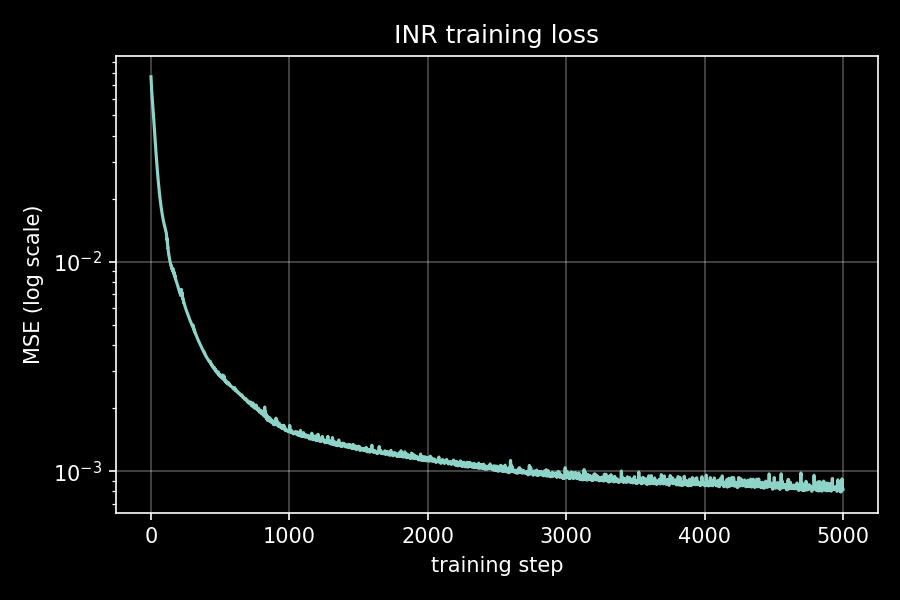
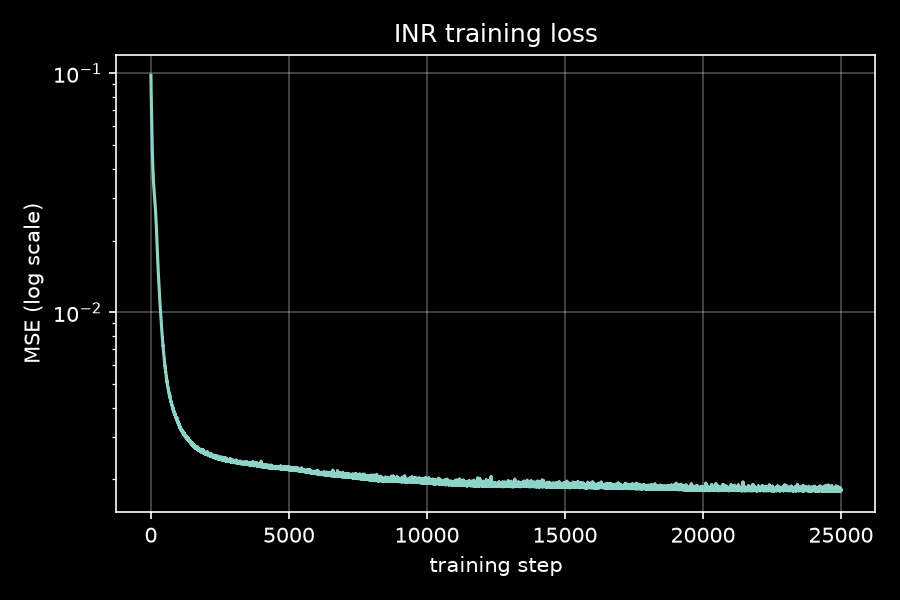
704 parameters could be enough for many INR tasks

diff --git a/implicit_neral_reps/train_inr.py b/implicit_neral_reps/train_inr.py
@@ -14,9 +14,9 @@ Pipeline:
 
 import os
 
-os.environ.setdefault(
-    "JAX_PLATFORMS", "cpu"
-)  # safe default; CPU is plenty for a 224x224 INR
+# os.environ.setdefault(
+#     "JAX_PLATFORMS", "cpu"
+# )  # safe default; CPU is plenty for a 224x224 INR
 
 import jax
 import jax.numpy as jnp
@@ -36,17 +36,19 @@ USE_FOURIER_FEATURES = False  # <-- flip this to False to feed raw (x, y) coords
 NUM_FOURIER_FREQS = 1  # only used when USE_FOURIER_FEATURES = True
 INR_WIDTH = 12
 INR_DEPTH = 6
-NUM_STEPS = 5000
+NUM_STEPS = 25000
 LR = 1e-3
-SEED = 0
+SEED = 2030
 DTYPE = (
     jnp.float32
 )  # float32 throughout; bf16 causes needless precision headaches for a demo
 
 # INPUT_IMAGE_PATH = "pusht.webp"
-INPUT_IMAGE_PATH = "ogbench.png"
+# INPUT_IMAGE_PATH = "ogbench.png"
 # INPUT_IMAGE_PATH = "tworoom.png"
 # INPUT_IMAGE_PATH = "reacher.png"
+# INPUT_IMAGE_PATH = "craftax.jpg"
+INPUT_IMAGE_PATH = "quadruped.jpg"
 OUT_DIR = "./"
 os.makedirs(OUT_DIR, exist_ok=True)
 
@@ -107,36 +109,95 @@ def compute_in_dim(use_fourier, num_freqs):
     return 2 * 2 * num_freqs if use_fourier else 2
 
 
+# class INR(eqx.Module):
+#     layers: list
+#     raw_omega: jnp.ndarray  # shape (depth-1,), unconstrained/trainable
+#     omega_min: float = eqx.field(static=True)
+#     omega_max: float = eqx.field(static=True)
+
+#     def __init__(
+#         self, in_dim, out_dim, width, depth, key, omega_min=50.0, omega_max=60.0
+#     ):
+#         keys = jax.random.split(key, depth)
+#         dims = [in_dim] + [width] * (depth - 1) + [out_dim]
+#         self.layers = [
+#             eqx.nn.Linear(dims[i], dims[i + 1], key=keys[i]) for i in range(depth)
+#         ]
+#         self.omega_min = omega_min
+#         self.omega_max = omega_max
+#         # placeholder; siren_init_learnable_omega overwrites this with a sensible starting point
+#         self.raw_omega = jnp.zeros((depth - 1,))
+
+#     def get_omega(self, i):
+#         # sigmoid squashes the trainable scalar into (0, 1), then rescale into [omega_min, omega_max]
+
+#         # frac = self.raw_omega[i]
+#         # frac = jax.nn.sigmoid(self.raw_omega[i])
+#         # frac = jnp.clip(self.raw_omega[i], 0.0, 1.0)
+#         frac = jnp.sin(self.raw_omega[i]) ** 2
+
+#         return self.omega_min + frac * (self.omega_max - self.omega_min)
+
+#     def __call__(self, x):
+#         for i, layer in enumerate(self.layers):
+#             x = layer(x)
+#             if i < len(self.layers) - 1:
+#                 omega = self.get_omega(i)
+#                 x = jnp.sin(omega * x)
+#         return x
+
+
+# def siren_init(model, key, init_omega=30.0):
+#     """
+#     Initialize weights with SIREN's principled uniform scheme (using init_omega
+#     as the effective frequency for the bound calculation), and initialize the
+#     learnable raw_omega scalars so every layer STARTS at init_omega exactly
+#     (it's then free to drift within [omega_min, omega_max] during training).
+#     """
+#     layers = model.layers
+#     keys = jax.random.split(key, len(layers))
+#     new_layers = []
+#     for i, (layer, k) in enumerate(zip(layers, keys)):
+#         fan_in = layer.weight.shape[1]
+#         bound = 1.0 / fan_in if i == 0 else np.sqrt(6.0 / fan_in) / init_omega
+#         new_weight = jax.random.uniform(
+#             k, layer.weight.shape, minval=-bound, maxval=bound
+#         )
+#         layer = eqx.tree_at(lambda l: l.weight, layer, new_weight)
+#         new_layers.append(layer)
+#     model = eqx.tree_at(lambda m: m.layers, model, new_layers)
+
+#     # Solve for the raw (pre-sigmoid) value that maps to init_omega exactly:
+#     # init_omega = omega_min + sigmoid(raw) * (omega_max - omega_min)
+#     frac = (init_omega - model.omega_min) / (model.omega_max - model.omega_min)
+#     frac = float(np.clip(frac, 1e-4, 1 - 1e-4))  # avoid inf at the logit boundaries
+#     raw_init_value = float(np.log(frac / (1 - frac)))  # inverse sigmoid (logit)
+#     raw_omega = jnp.full((len(layers) - 1,), raw_init_value)
+#     model = eqx.tree_at(lambda m: m.raw_omega, model, raw_omega)
+
+#     return model
+
+
 class INR(eqx.Module):
     layers: list
-    raw_omega: jnp.ndarray  # shape (depth-1,), unconstrained/trainable
-    omega_min: float = eqx.field(static=True)
-    omega_max: float = eqx.field(static=True)
+    raw_omega: jnp.ndarray  # shape (depth-1,), trainable, initialized to 0!
+    base_omega: float = eqx.field(static=True)
 
-    def __init__(
-        self, in_dim, out_dim, width, depth, key, omega_min=50.0, omega_max=60.0
-    ):
+    def __init__(self, in_dim, out_dim, width, depth, key, base_omega=20.0, **kwargs):
         keys = jax.random.split(key, depth)
         dims = [in_dim] + [width] * (depth - 1) + [out_dim]
         self.layers = [
             eqx.nn.Linear(dims[i], dims[i + 1], key=keys[i]) for i in range(depth)
         ]
-        self.omega_min = omega_min
-        self.omega_max = omega_max
-        # placeholder; siren_init_learnable_omega overwrites this with a sensible starting point
+        self.base_omega = base_omega
+
+        # raw_omega sits at 0.0, putting it perfectly on scale with network weights
         self.raw_omega = jnp.zeros((depth - 1,))
 
     def get_omega(self, i):
-        # sigmoid squashes the trainable scalar into (0, 1), then rescale into [omega_min, omega_max]
-        # frac = jax.nn.sigmoid(self.raw_omega[i])
-
-        # frac = jnp.clip(self.raw_omega[i], 0.0, 1.0)
-
-        frac = jnp.sin(self.raw_omega[i]) ** 2
-
-        # frac = self.raw_omega[i]
-
-        return self.omega_min + frac * (self.omega_max - self.omega_min)
+        # Exponential reparameterization naturally bounds omega > 0
+        # and normalizes the gradient scales!
+        return self.base_omega * jnp.exp(self.raw_omega[i])
 
     def __call__(self, x):
         for i, layer in enumerate(self.layers):
@@ -149,31 +210,27 @@ class INR(eqx.Module):
 
 def siren_init(model, key, init_omega=30.0):
     """
-    Initialize weights with SIREN's principled uniform scheme (using init_omega
-    as the effective frequency for the bound calculation), and initialize the
-    learnable raw_omega scalars so every layer STARTS at init_omega exactly
-    (it's then free to drift within [omega_min, omega_max] during training).
+    Initialize weights with SIREN's principled uniform scheme.
+    Because raw_omega is initialized to 0.0, the network starts exactly
+    at `base_omega` for every layer, meaning we don't need to overwrite it here.
     """
     layers = model.layers
     keys = jax.random.split(key, len(layers))
     new_layers = []
+
     for i, (layer, k) in enumerate(zip(layers, keys)):
         fan_in = layer.weight.shape[1]
-        bound = 1.0 / fan_in if i == 0 else np.sqrt(6.0 / fan_in) / init_omega
+
+        # We use the model's base_omega for the initialization bound
+        bound = 1.0 / fan_in if i == 0 else np.sqrt(6.0 / fan_in) / model.base_omega
+
         new_weight = jax.random.uniform(
             k, layer.weight.shape, minval=-bound, maxval=bound
         )
         layer = eqx.tree_at(lambda l: l.weight, layer, new_weight)
         new_layers.append(layer)
-    model = eqx.tree_at(lambda m: m.layers, model, new_layers)
 
-    # Solve for the raw (pre-sigmoid) value that maps to init_omega exactly:
-    # init_omega = omega_min + sigmoid(raw) * (omega_max - omega_min)
-    frac = (init_omega - model.omega_min) / (model.omega_max - model.omega_min)
-    frac = float(np.clip(frac, 1e-4, 1 - 1e-4))  # avoid inf at the logit boundaries
-    raw_init_value = float(np.log(frac / (1 - frac)))  # inverse sigmoid (logit)
-    raw_omega = jnp.full((len(layers) - 1,), raw_init_value)
-    model = eqx.tree_at(lambda m: m.raw_omega, model, raw_omega)
+    model = eqx.tree_at(lambda m: m.layers, model, new_layers)
 
     return model
 
@@ -297,7 +354,7 @@ def random_filter_normalized_direction(leaves, key):
     return direction
 
 
-def loss_landscape(model, coords, target, loss_fn, key, span=1.0, n=25):
+def loss_landscape(model, coords, target, loss_fn, key, span=1.0, n=50):
     params, static = eqx.partition(model, eqx.is_array)
     leaves, treedef = jax.tree_util.tree_flatten(params)
 
@@ -414,7 +471,7 @@ plt.show()
 print("Computing loss landscape (this takes a little while)...")
 loss_fn = make_loss_fn(forward_fn)
 alphas, betas, grid = loss_landscape(
-    model, coords, target, loss_fn, land_key, span=1.0, n=25
+    model, coords, target, loss_fn, land_key, span=1.0, n=50
 )
 
 fig = plt.figure(figsize=(11, 4.5))
@@ -446,3 +503,5 @@ print("Done. Saved:")
 print(" -", os.path.join(OUT_DIR, "reconstruction.png"))
 print(" -", os.path.join(OUT_DIR, "loss_curve.png"))
 print(" -", os.path.join(OUT_DIR, "loss_landscape.png"))
+
+# %%
